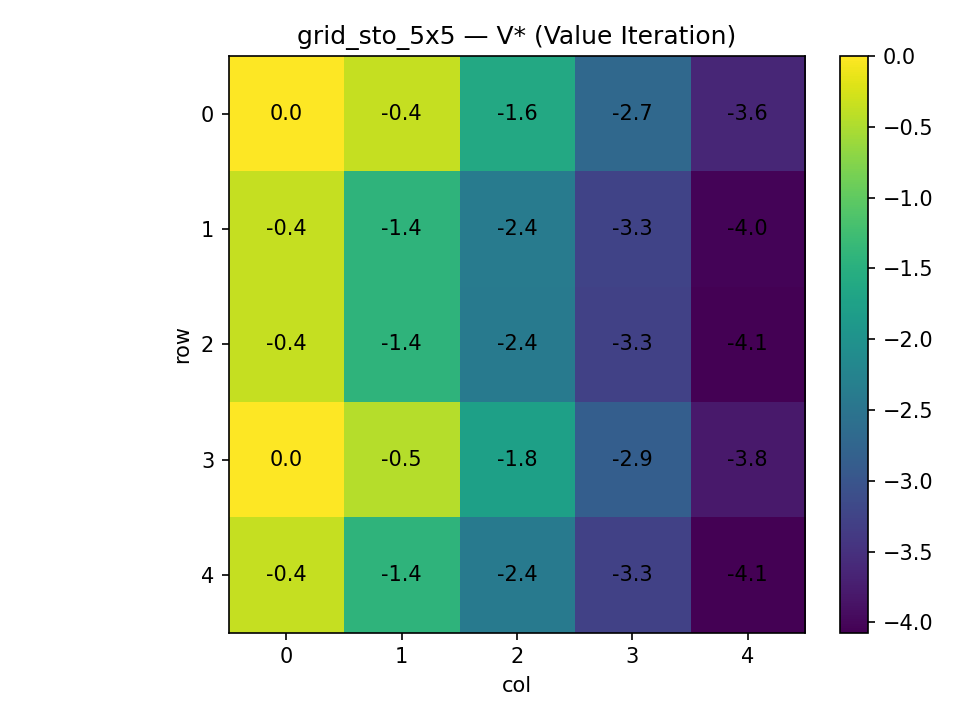
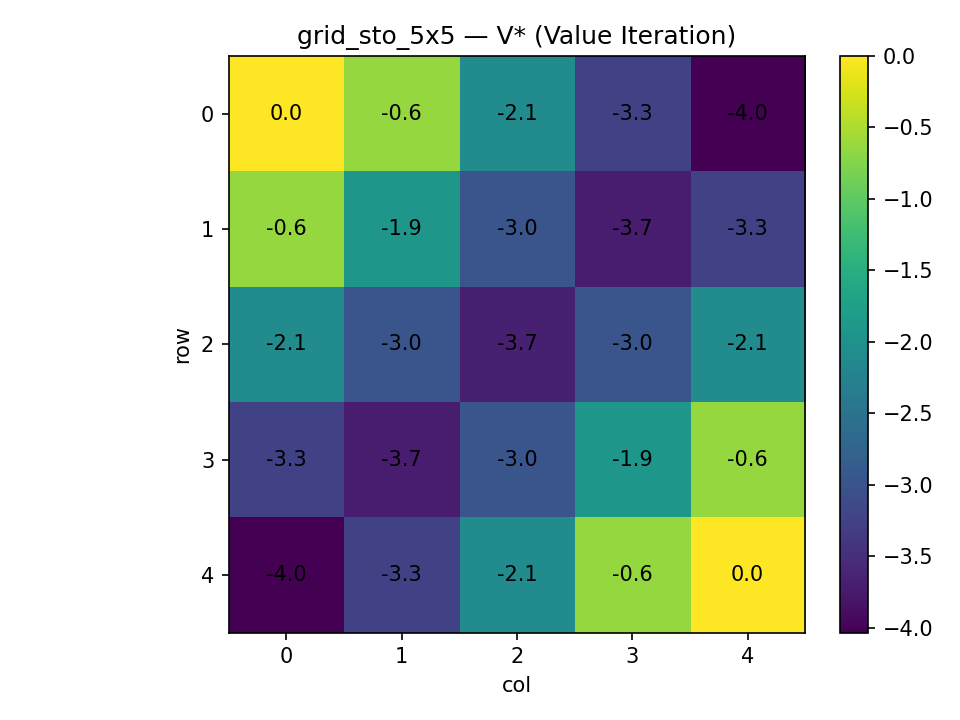
exp: 5x5 GridWorld — increased stochasticity slows convergence (PI iters=3 sweeps=[67,16,16]; VI=18 sweeps)

diff --git a/lab2/experiments/run_gridworld.py b/lab2/experiments/run_gridworld.py
@@ -52,8 +52,8 @@ def main():
 
     # Stochastic 5x5 (80% intended, 10% perpendicular each)
     spec_sto = GridSpec(
-        size=5, terminals=(0, 15), obstacles=(), step_reward=-1.0,
-        goal_reward=0.0, intended_prob=0.8, stochastic=True
+        size=5, terminals=(0, 24), obstacles=(), step_reward=-1.0,
+        goal_reward=0.0, intended_prob=0.7, stochastic=True
     )
     run_case(spec_sto, tag="grid_sto_5x5", gamma=0.9, theta=1e-6)
 
